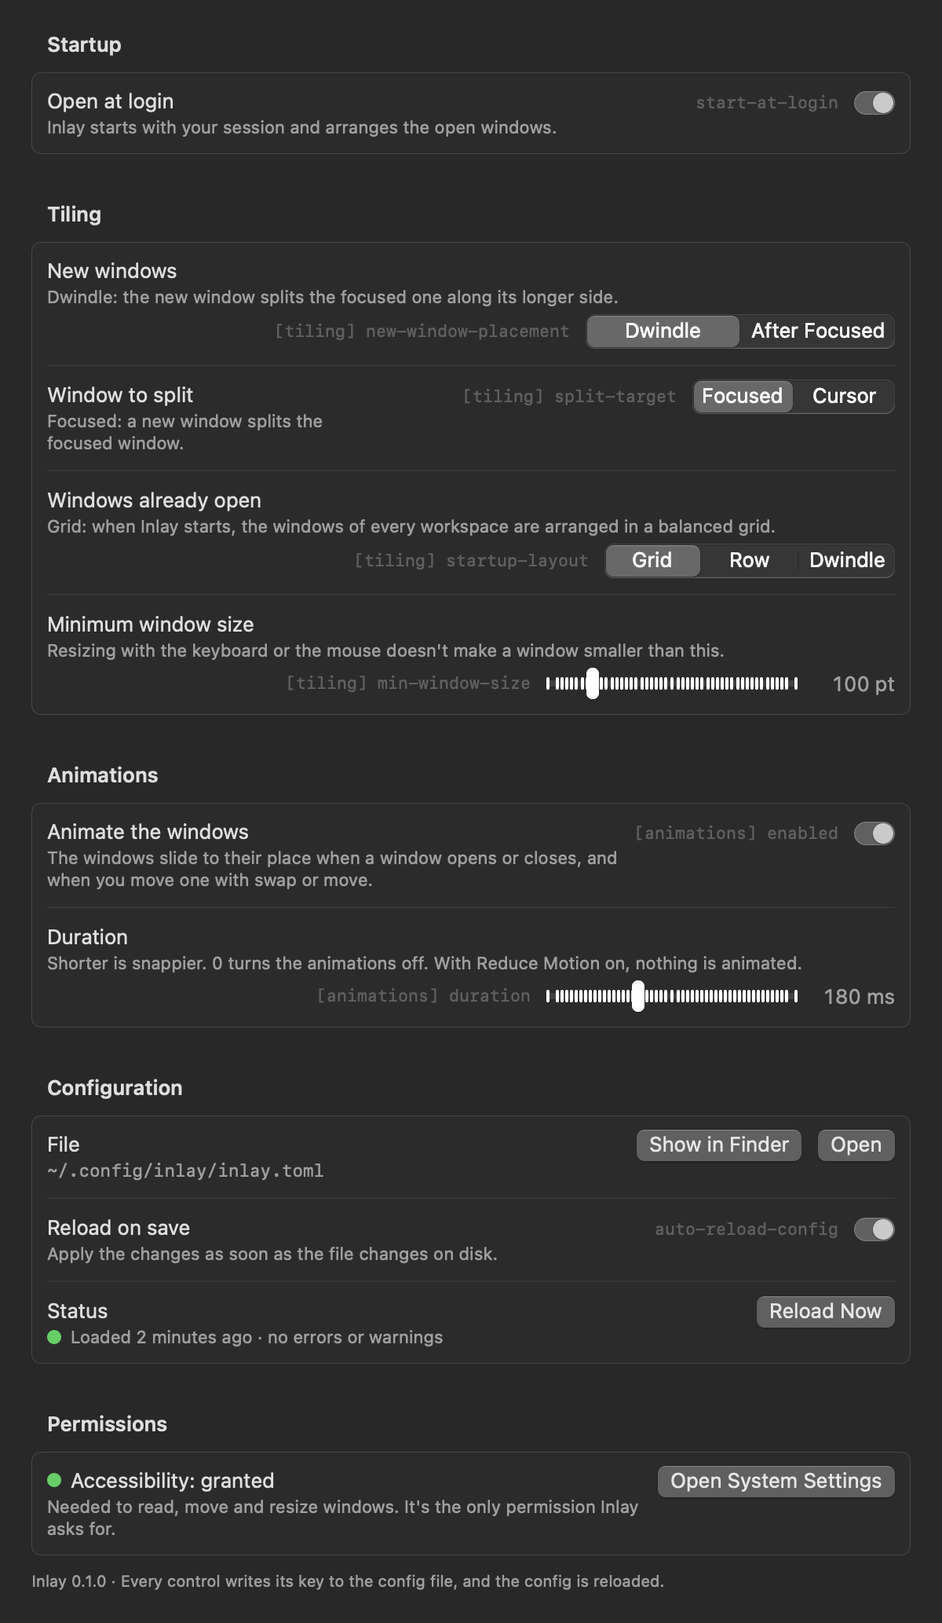
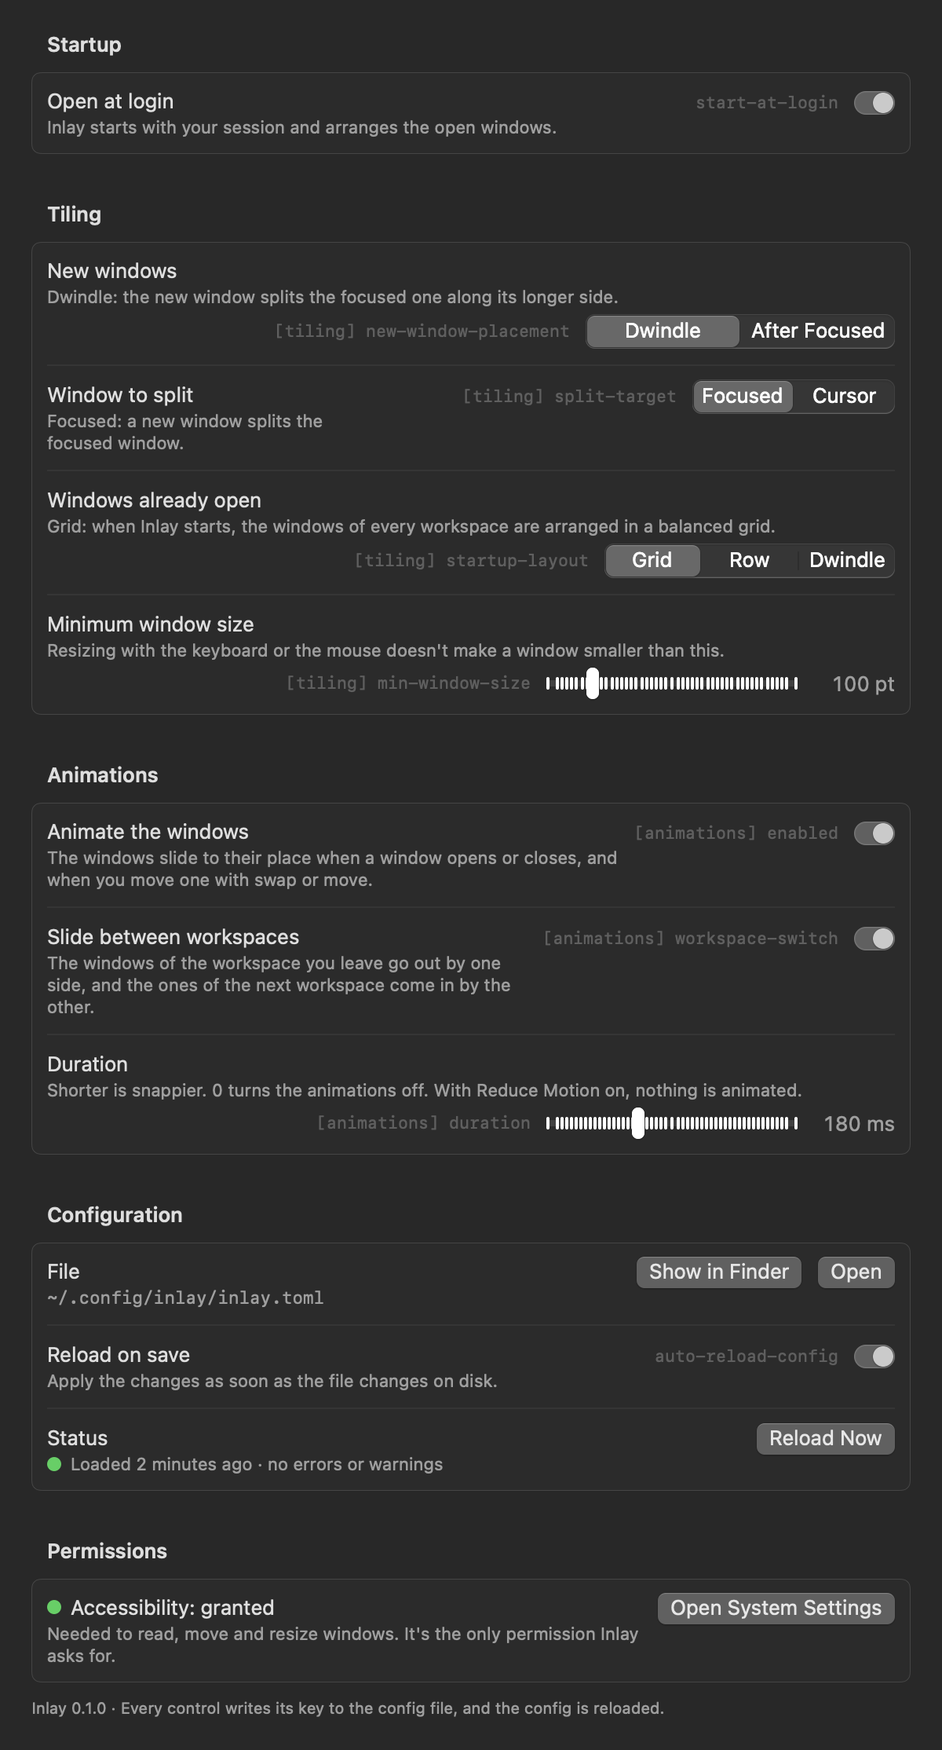
Slide the windows when switching workspaces
When a screen switches to another workspace, the tiling windows of the one it
leaves slide out by one side of the screen and are hidden in their corner
afterwards, and the ones of the workspace it shows slide in from the other
side. Toward a later workspace, in the order of the menu bar item, they move
to the left; toward an earlier one, to the right. The floating windows appear
and disappear as before, and a screen with another screen to its left or to
its right doesn't slide, or the windows would cross it.

While a window only moves, the animations set its position alone, and its size
only in the first and the last frame: the app doesn't lay out its content
again for every frame.

[animations] workspace-switch (true by default) turns it on and off, and
Settings shows it in its General tab.

diff --git a/Sources/AppBundle/layout/WindowAnimator.swift b/Sources/AppBundle/layout/WindowAnimator.swift
@@ -44,6 +44,15 @@ final class WindowAnimator {
     static let shared = WindowAnimator()
 
     private var animations: [UInt32: (window: Window, animation: FrameAnimation)] = [:]
+    /// The windows whose size the current animation has already set. While the size doesn't change, only the position is
+    /// set: the app doesn't have to lay out its content again
+    private var sized: Set<UInt32> = []
+    /// The workspace that each screen showed in the previous layout pass, by the top left corner of the screen
+    private var shownWorkspaces: [CGPoint: String] = [:]
+    /// The workspaces that come in during this layout pass -> how far from their tiles their windows start, horizontally
+    private var slidingIn: [String: CGFloat] = [:]
+    /// The windows that slide out of the screen -> what happens to them once they are out (they are hidden in a corner)
+    private var slideOutEnds: [UInt32: @MainActor () async -> Void] = [:]
     private var task: Task<Void, Never>? = nil
     /// When something asked for the next layout to be animated. See: requestAnimatedLayout
     private var requestedAt: ContinuousClock.Instant? = nil
@@ -70,7 +79,52 @@ final class WindowAnimator {
     /// The windows have been laid out. See: layoutWorkspaces
     func layoutDidFinish() {
         requestedAt = nil
+        slidingIn = [:]
     }
+
+    /// Before the layout of the visible workspaces: the screens that show another workspace than in the previous pass
+    /// slide their windows. Returns the workspaces that are left -> how far their windows slide out, horizontally.
+    /// The windows of the workspace that is shown slide in from the other side. See: WorkspaceSlide
+    func beginLayout(_ monitors: [any MonitorInfo]) -> [String: CGFloat] {
+        slidingIn = [:]
+        var shown: [CGPoint: String] = [:]
+        for monitor in monitors { shown[monitor.rect.topLeftCorner] = monitor.activeWorkspace.name }
+        let previous = shownWorkspaces
+        shownWorkspaces = shown
+        guard config.animations.workspaceSwitch, duration > .zero else { return [:] }
+        let order = Workspace.all.map(\.name)
+        let screens = monitors.map { CGRect($0.rect) }
+        var slidingOut: [String: CGFloat] = [:]
+        for (index, monitor) in monitors.enumerated() {
+            let new = monitor.activeWorkspace.name
+            // The workspace that was left is gone (it had no windows), or another screen shows it now
+            guard let old = previous[monitor.rect.topLeftCorner], old != new, !shown.values.contains(old),
+                  let direction = WorkspaceSlide.direction(from: old, to: new, order: order) else { continue }
+            var others = screens
+            others.remove(at: index)
+            if WorkspaceSlide.hasHorizontalNeighbor(screens[index], others: others) { continue }
+            DebugStats.count("animation.workspace-switch")
+            slidingIn[new] = direction * monitor.width
+            slidingOut[old] = -direction * monitor.width
+        }
+        return slidingOut
+    }
+
+    /// Slides a tiling window of the workspace that is left out of the screen, by `distance` points, and then runs `end`,
+    /// which hides it. See: layoutWorkspaces
+    func slideOut(_ window: Window, distance: CGFloat, then end: @escaping @MainActor () async -> Void) {
+        if slideOutEnds[window.windowId] != nil { return }
+        let now: ContinuousClock.Instant = .now
+        guard let from = currentFrame(window.windowId) ?? window.lastAppliedLayoutPhysicalRect.map(CGRect.init) else {
+            Task { @MainActor in await end() }
+            return
+        }
+        slideOutEnds[window.windowId] = end
+        start(window, FrameAnimation(from: from, to: from.offsetBy(dx: distance, dy: 0), start: now, duration: duration), now: now)
+    }
+
+    /// The window is sliding out of the screen: it is hidden once it is out
+    func isSlidingOut(_ windowId: UInt32) -> Bool { slideOutEnds[windowId] != nil }
 
     private var duration: Duration {
         if isUnitTest && !isEnabledInTests { return .zero }
@@ -81,8 +135,8 @@ final class WindowAnimator {
     /// Puts a tiling window in the frame of the layout: right away, or sliding there if the layout is animated.
     ///
     /// - Parameter previous: the frame that the previous layout gave to the window. The window slides from there,
-    ///   or grows from the center of its tile if it is new (Window.isEntering), or goes on from where it is if it is
-    ///   already sliding
+    ///   or grows from the center of its tile if it is new (Window.isEntering), or comes in from the side of the screen
+    ///   if its workspace is being switched to (see beginLayout), or goes on from where it is if it is already sliding
     func setFrame(_ window: Window, _ rect: Rect, previous: Rect?) {
         let target = CGRect(rect)
         let now: ContinuousClock.Instant = .now
@@ -91,15 +145,24 @@ final class WindowAnimator {
         window.isEntering = false
         // The layout runs more than once for the same change (the light session, then the complete one)
         if let current, current.animation.to == target { return }
+        // Shown again while it was sliding out: it isn't hidden
+        slideOutEnds[window.windowId] = nil
         let duration = duration
-        let from = current.map { $0.animation.frame(at: now) } ?? (isEntering ? Self.entryFrame(target) : previous.map(CGRect.init))
-        guard isAnimatedLayoutRequested, duration > .zero, let from, from != target else {
+        let slide = window.nodeWorkspace.flatMap { slidingIn[$0.name] }
+        let from = current.map { $0.animation.frame(at: now) }
+            ?? (isEntering ? Self.entryFrame(target) : slide.map { target.offsetBy(dx: $0, dy: 0) } ?? previous.map(CGRect.init))
+        guard isAnimatedLayoutRequested || slide != nil, duration > .zero, let from, from != target else {
             animations[window.windowId] = nil
             window.setAxFrame(target.origin, target.size)
             return
         }
         DebugStats.count("animation.started")
-        animations[window.windowId] = (window, FrameAnimation(from: from, to: target, start: now, duration: duration))
+        start(window, FrameAnimation(from: from, to: target, start: now, duration: duration), now: now)
+    }
+
+    private func start(_ window: Window, _ animation: FrameAnimation, now: ContinuousClock.Instant) {
+        animations[window.windowId] = (window, animation)
+        sized.remove(window.windowId)
         tick(now: now)
         startLoop()
     }
@@ -115,6 +178,7 @@ final class WindowAnimator {
     /// Something else places the window: hiding it in a corner, the mouse, the fullscreen
     func cancel(_ windowId: UInt32) {
         animations[windowId] = nil
+        slideOutEnds[windowId] = nil
     }
 
     /// Where the window is while it slides. nil if it isn't sliding
@@ -127,6 +191,9 @@ final class WindowAnimator {
     /// Stops every animation where it is
     func cancelAll() {
         animations = [:]
+        slideOutEnds = [:]
+        slidingIn = [:]
+        shownWorkspaces = [:]
     }
 
     private func startLoop() {
@@ -147,16 +214,41 @@ final class WindowAnimator {
             // The window has closed, or the mouse has taken it
             if window.parent == nil || windowId == currentlyManipulatedWithMouseWindowId {
                 animations[windowId] = nil
+                slideOutEnds[windowId] = nil
                 continue
             }
             let isFinished = animation.isFinished(at: now)
             // Whole points: a fraction of a point makes some apps lay out their content again for nothing
             let frame = isFinished ? animation.to : animation.frame(at: now).integral(roundingTo: 1)
             DebugStats.count("animation.frame")
-            window.setAxFrame(frame.origin, frame.size)
-            if isFinished { animations[windowId] = nil }
+            // The size is set in the first frame and in the last one. In between, only if it changes
+            let movesOnly = !isFinished && animation.from.size == animation.to.size && sized.contains(windowId)
+            window.setAxFrame(frame.origin, movesOnly ? nil : frame.size)
+            sized.insert(windowId)
+            if isFinished {
+                animations[windowId] = nil
+                sized.remove(windowId)
+                if let end = slideOutEnds.removeValue(forKey: windowId) {
+                    Task { @MainActor in await end() }
+                }
+            }
         }
         BordersController.shared.refresh()
+    }
+}
+
+/// The slide of the windows when a screen switches workspaces. Pure
+enum WorkspaceSlide {
+    /// 1: the workspace that is shown comes after the one that is left, in the order of the menu bar item. Its windows come
+    /// in from the right, and the others go out by the left. -1: the other way. nil if one of them isn't in the order
+    static func direction(from old: String, to new: String, order: [String]) -> CGFloat? {
+        guard let oldIndex = order.firstIndex(of: old), let newIndex = order.firstIndex(of: new), oldIndex != newIndex else { return nil }
+        return newIndex > oldIndex ? 1 : -1
+    }
+
+    /// Another screen on the left or on the right of the screen: the windows would slide across it
+    static func hasHorizontalNeighbor(_ screen: CGRect, others: [CGRect]) -> Bool {
+        others.contains { $0.minY < screen.maxY && $0.maxY > screen.minY }
     }
 }
 

diff --git a/Tests/InlayTests/layout/WindowAnimatorTest.swift b/Tests/InlayTests/layout/WindowAnimatorTest.swift
@@ -125,6 +125,74 @@ extension InlayTests {
             assertEquals(animator.isAnimating, false)
         }
 
+        // MARK: - Switching workspaces
+
+        @Test func testWorkspaceSlideDirection() {
+            let order = ["1", "2", "3", "10"]
+            // Toward a later workspace the windows move to the left: the new ones come in from the right
+            assertEquals(WorkspaceSlide.direction(from: "1", to: "3", order: order), 1)
+            assertEquals(WorkspaceSlide.direction(from: "10", to: "2", order: order), -1)
+            assertEquals(WorkspaceSlide.direction(from: "1", to: "1", order: order), nil)
+            assertEquals(WorkspaceSlide.direction(from: "gone", to: "1", order: order), nil)
+        }
+
+        @Test func testNoSlideTowardAnotherScreen() {
+            let main = CGRect(x: 0, y: 0, width: 1920, height: 1080)
+            // Side by side: the windows would cross the other screen
+            assertEquals(WorkspaceSlide.hasHorizontalNeighbor(main, others: [CGRect(x: 1920, y: 200, width: 1440, height: 900)]), true)
+            assertEquals(WorkspaceSlide.hasHorizontalNeighbor(main, others: [CGRect(x: -1440, y: 0, width: 1440, height: 900)]), true)
+            // Above or below: the windows slide sideways, away from it
+            assertEquals(WorkspaceSlide.hasHorizontalNeighbor(main, others: [CGRect(x: 0, y: -900, width: 1440, height: 900)]), false)
+            assertEquals(WorkspaceSlide.hasHorizontalNeighbor(main, others: []), false)
+        }
+
+        @Test func testSwitchingWorkspacesSlidesTheWindows() async throws {
+            let left = Workspace.get(byName: "a-left")
+            let right = Workspace.get(byName: "b-right")
+            let outgoing = TestWindow.new(id: 1, parent: left.rootTilingContainer)
+            let incoming = TestWindow.new(id: 2, parent: right.rootTilingContainer)
+            assertEquals(left.focusWorkspace(), true)
+            try await left.layoutWorkspace()
+            let leftTile = try #require(outgoing.lastAppliedLayoutPhysicalRect.map(CGRect.init))
+            assertEquals(animator.beginLayout(monitorInfos), [:]) // The first pass knows nothing to compare with
+            animator.layoutDidFinish()
+
+            // To a later workspace: the windows go to the left
+            assertEquals(right.focusWorkspace(), true)
+            let width = mainMonitorInfo.width
+            assertEquals(animator.beginLayout(monitorInfos), ["a-left": -width])
+            try await right.layoutWorkspace()
+            animator.tick(now: .now - .seconds(10))
+            let rightTile = try #require(incoming.lastAppliedLayoutPhysicalRect.map(CGRect.init))
+            // The new one starts a screen to the right of its tile
+            assertEquals(isClose(frame(incoming), rightTile.offsetBy(dx: width, dy: 0)), true)
+            var hidden = false
+            animator.slideOut(outgoing, distance: -width) { hidden = true }
+            assertEquals(animator.isSlidingOut(1), true)
+            animator.tick(now: .now - .seconds(10))
+            assertEquals(isClose(frame(outgoing), leftTile), true)
+            // Over: the new one in its tile, the old one a screen to the left, and then hidden
+            animator.tick(now: .now + .seconds(1))
+            assertEquals(frame(incoming), rightTile)
+            assertEquals(frame(outgoing), leftTile.offsetBy(dx: -width, dy: 0))
+            await Task.yield()
+            assertEquals(hidden, true)
+            assertEquals(animator.isSlidingOut(1), false)
+            animator.layoutDidFinish()
+
+            // The same layout again: nothing slides
+            assertEquals(animator.beginLayout(monitorInfos), [:])
+            // Back to the earlier workspace: to the right. Not with the switch turned off
+            assertEquals(left.focusWorkspace(), true)
+            config.animations.workspaceSwitch = false
+            assertEquals(animator.beginLayout(monitorInfos), [:])
+            config.animations.workspaceSwitch = true
+            assertEquals(right.focusWorkspace(), true)
+            _ = animator.beginLayout(monitorInfos)
+            assertEquals(left.focusWorkspace(), true)
+            assertEquals(animator.beginLayout(monitorInfos), ["b-right": width])
+        }
+
         // MARK: - What asks for an animated layout
 
         @Test func testSwapAndMoveAskForAnAnimatedLayout() async throws {

diff --git a/Sources/AppBundle/layout/refresh.swift b/Sources/AppBundle/layout/refresh.swift
@@ -171,6 +171,9 @@ private func layoutWorkspaces() async throws {
         return
     }
     let monitors = monitorInfos
+    // The screens that switched workspace: the windows of the workspace that is left slide out, and the ones of
+    // the workspace that is shown slide in (see WindowAnimator.setFrame)
+    let slidingOut = WindowAnimator.shared.beginLayout(monitors)
     var monitorToOptimalHideCorner: [CGPoint: OptimalHideCorner] = [:]
     for monitor in monitors {
         let xOff = monitor.width * 0.1
@@ -204,8 +207,14 @@ private func layoutWorkspaces() async throws {
     }
     for workspace in Workspace.all where !workspace.isVisible {
         let corner = monitorToOptimalHideCorner[workspace.workspaceMonitor.rect.topLeftCorner] ?? .bottomRightCorner
+        let distance = slidingOut[workspace.name]
         for window in workspace.allLeafWindowsRecursive {
-            try await (window as! MacWindow).hideInCorner(corner) // todo as!
+            let window = window as! MacWindow // todo as!
+            if let distance, !window.isFloating, !window.isHiddenInCorner, window.lastAppliedLayoutPhysicalRect != nil {
+                WindowAnimator.shared.slideOut(window, distance: distance) { try? await window.hideInCorner(corner) }
+            } else {
+                try await window.hideInCorner(corner)
+            }
         }
     }
     WindowAnimator.shared.layoutDidFinish()

diff --git a/Sources/AppBundle/config/parseAnimations.swift b/Sources/AppBundle/config/parseAnimations.swift
@@ -8,6 +8,9 @@ struct AnimationsConfig: ConvenienceMutable, Equatable, Sendable {
     var enabled: Bool = true
     /// How long a window takes to get to its new frame, in milliseconds. 0: no animation
     var duration: Int = 180
+    /// Switching workspaces slides the windows: the ones of the workspace that is left go out by one side of the screen,
+    /// the ones of the workspace that is shown come in by the other. See: WorkspaceSlide
+    var workspaceSwitch: Bool = true
 
     static let durationRange = 0 ... 500
 
@@ -18,6 +21,7 @@ struct AnimationsConfig: ConvenienceMutable, Equatable, Sendable {
 let animationsParserTable: [String: any ParserProtocol<AnimationsConfig>] = [
     "enabled": Parser(\.enabled, parseBool),
     "duration": Parser(\.duration, parseDuration),
+    "workspace-switch": Parser(\.workspaceSwitch, parseBool),
 ]
 
 func parseAnimations(_ raw: OrderedJson, _ backtrace: ConfigBacktrace, _ c: inout ConfigParserContext) -> AnimationsConfig {

diff --git a/Sources/AppBundle/ui/Strings.swift b/Sources/AppBundle/ui/Strings.swift
@@ -75,6 +75,8 @@ enum Strings {
         static let animations = "Animations"
         static let animate = "Animate the windows"
         static let animateDetail = "The windows slide to their place when a window opens or closes, and when you move one with swap or move."
+        static let workspaceSwitch = "Slide between workspaces"
+        static let workspaceSwitchDetail = "The windows of the workspace you leave go out by one side, and the ones of the next workspace come in by the other."
         static let duration = "Duration"
         static let durationDetail = "Shorter is snappier. 0 turns the animations off. With Reduce Motion on, nothing is animated."
         static func milliseconds(_ value: Int) -> String { "\(value) ms" }

diff --git a/Sources/AppBundle/settings/SettingsViews.swift b/Sources/AppBundle/settings/SettingsViews.swift
@@ -233,6 +233,8 @@ struct GeneralSettingsView: View {
             }
             Section(Strings.Settings.animations) {
                 ToggleRow(model: model, title: Strings.Settings.animate, detail: Strings.Settings.animateDetail, key: .animationsEnabled)
+                ToggleRow(model: model, title: Strings.Settings.workspaceSwitch, detail: Strings.Settings.workspaceSwitchDetail, key: .animationsWorkspaceSwitch)
+                    .disabled(!model.bool(.animationsEnabled))
                 SliderRow(
                     model: model,
                     title: Strings.Settings.duration,

diff --git a/Sources/AppBundle/tree/MacWindow.swift b/Sources/AppBundle/tree/MacWindow.swift
@@ -127,6 +127,8 @@ final class MacWindow: Window {
     @MainActor
     func hideInCorner(_ corner: OptimalHideCorner) async throws {
         guard let nodeMonitor else { return }
+        // It is hidden once it is out of the screen. See: WindowAnimator.slideOut
+        if WindowAnimator.shared.isSlidingOut(windowId) { return }
         WindowAnimator.shared.cancel(windowId)
         DebugStats.count("layout.hide-in-corner")
         // Don't accidentally override prevUnhiddenEmulationPosition in case of subsequent `hideInCorner` calls

diff --git a/Sources/AppBundle/settings/SettingsKeys.swift b/Sources/AppBundle/settings/SettingsKeys.swift
@@ -31,6 +31,7 @@ extension SettingsKey {
     // Animations. The defaults are the ones of AnimationsConfig
     static let animationsEnabled = SettingsKey(["animations"], "enabled", default: .bool(true))
     static let animationsDuration = SettingsKey(["animations"], "duration", default: .int(180))
+    static let animationsWorkspaceSwitch = SettingsKey(["animations"], "workspace-switch", default: .bool(true))
 
     // Menu bar
     static let menuBarEnabled = SettingsKey(["menu-bar"], "enabled", default: .bool(true))

diff --git a/README.md b/README.md
@@ -442,14 +442,21 @@ The shipped config has two ways of moving the focused window with the arrows:
 
 The tiling windows **slide to their place**, in 180 ms, when a window opens (it grows from the center of its
 tile while its neighbor makes room for it, like the *popin* of Hyprland) or closes, and when a window is moved with `swap` or `move`.
-The borders go with them. Nothing else is animated: resizing, `balance-sizes`, switching workspaces, the
+The borders go with them. Switching workspaces has its own slide (below). Nothing else is animated: resizing, `balance-sizes`, the
 startup and the mouse stay instant. With *Reduce motion* (System Settings → Accessibility → Display) nothing is
-animated. Settings has the same two keys in its **General** tab.
+animated. Settings has the same keys in its **General** tab.
+
+**Switching workspaces** slides the windows too, in the same duration: the windows of the workspace you leave
+go out by one side of the screen and the ones of the workspace you go to come in by the other. Toward a later
+workspace (in the order of the menu bar item) they move to the left, toward an earlier one to the right. Only
+the tiling windows slide: the floating ones appear and disappear as before. A screen with another screen to its
+left or to its right doesn't slide, or the windows would cross it.
 
 ```toml
 [animations]
     enabled = true
-    duration = 180   # 0 ... 500 milliseconds. 0 = no animation
+    duration = 180            # 0 ... 500 milliseconds. 0 = no animation
+    workspace-switch = true   # slide the windows when switching workspaces
 ```
 
 macOS only lets Inlay move the windows of other apps through the Accessibility API, one frame at a time, and
@@ -557,7 +564,7 @@ tabs with the shipped config (click one to see it at full size):
 
 <table>
 <tr>
-<td valign="top"><a href="docs/images/settings-general.png"><img src="docs/images/settings-general.png" alt="Real render of the General tab of Settings: Open at login (start-at-login); Tiling, with New windows (Dwindle or After Focused), Window to split (Focused or Cursor), Windows already open (Grid, Row or Dwindle) and a Minimum window size slider at 100 pt; Animations, with Animate the windows ([animations] enabled) and a Duration slider at 180 ms; Configuration, with the path of the file, Reload on save (auto-reload-config) and the status of the last load; and Permissions, with 'Accessibility: granted'" width="280"></a></td>
+<td valign="top"><a href="docs/images/settings-general.png"><img src="docs/images/settings-general.png" alt="Real render of the General tab of Settings: Open at login (start-at-login); Tiling, with New windows (Dwindle or After Focused), Window to split (Focused or Cursor), Windows already open (Grid, Row or Dwindle) and a Minimum window size slider at 100 pt; Animations, with Animate the windows ([animations] enabled), Slide between workspaces ([animations] workspace-switch) and a Duration slider at 180 ms; Configuration, with the path of the file, Reload on save (auto-reload-config) and the status of the last load; and Permissions, with 'Accessibility: granted'" width="280"></a></td>
 <td valign="top"><a href="docs/images/settings-menu-bar.png"><img src="docs/images/settings-menu-bar.png" alt="Real render of the Menu Bar tab of Settings: a live preview of the item on a dark and on a light bar, the three themes as thumbnails with 'chips' selected, the switches Show the menu bar item, Dim empty workspaces and Show the binding mode, and the four colors of [menu-bar.colors], each with its value, a color well and Reset" width="280"></a></td>
 <td valign="top"><a href="docs/images/settings-borders.png"><img src="docs/images/settings-borders.png" alt="Real render of the Borders tab of Settings: a preview of an active, an inactive and a floating window with their borders, the Show borders switch, the Width slider at 4 pt, the Square corners switch, the Corner radius slider at 16 pt, the Glow switch and the Glow radius slider at 12 pt, the three colors of [borders], and a row per binding mode (resize and service, both 'not set') for [borders.mode-colors]" width="280"></a></td>
 </tr>
